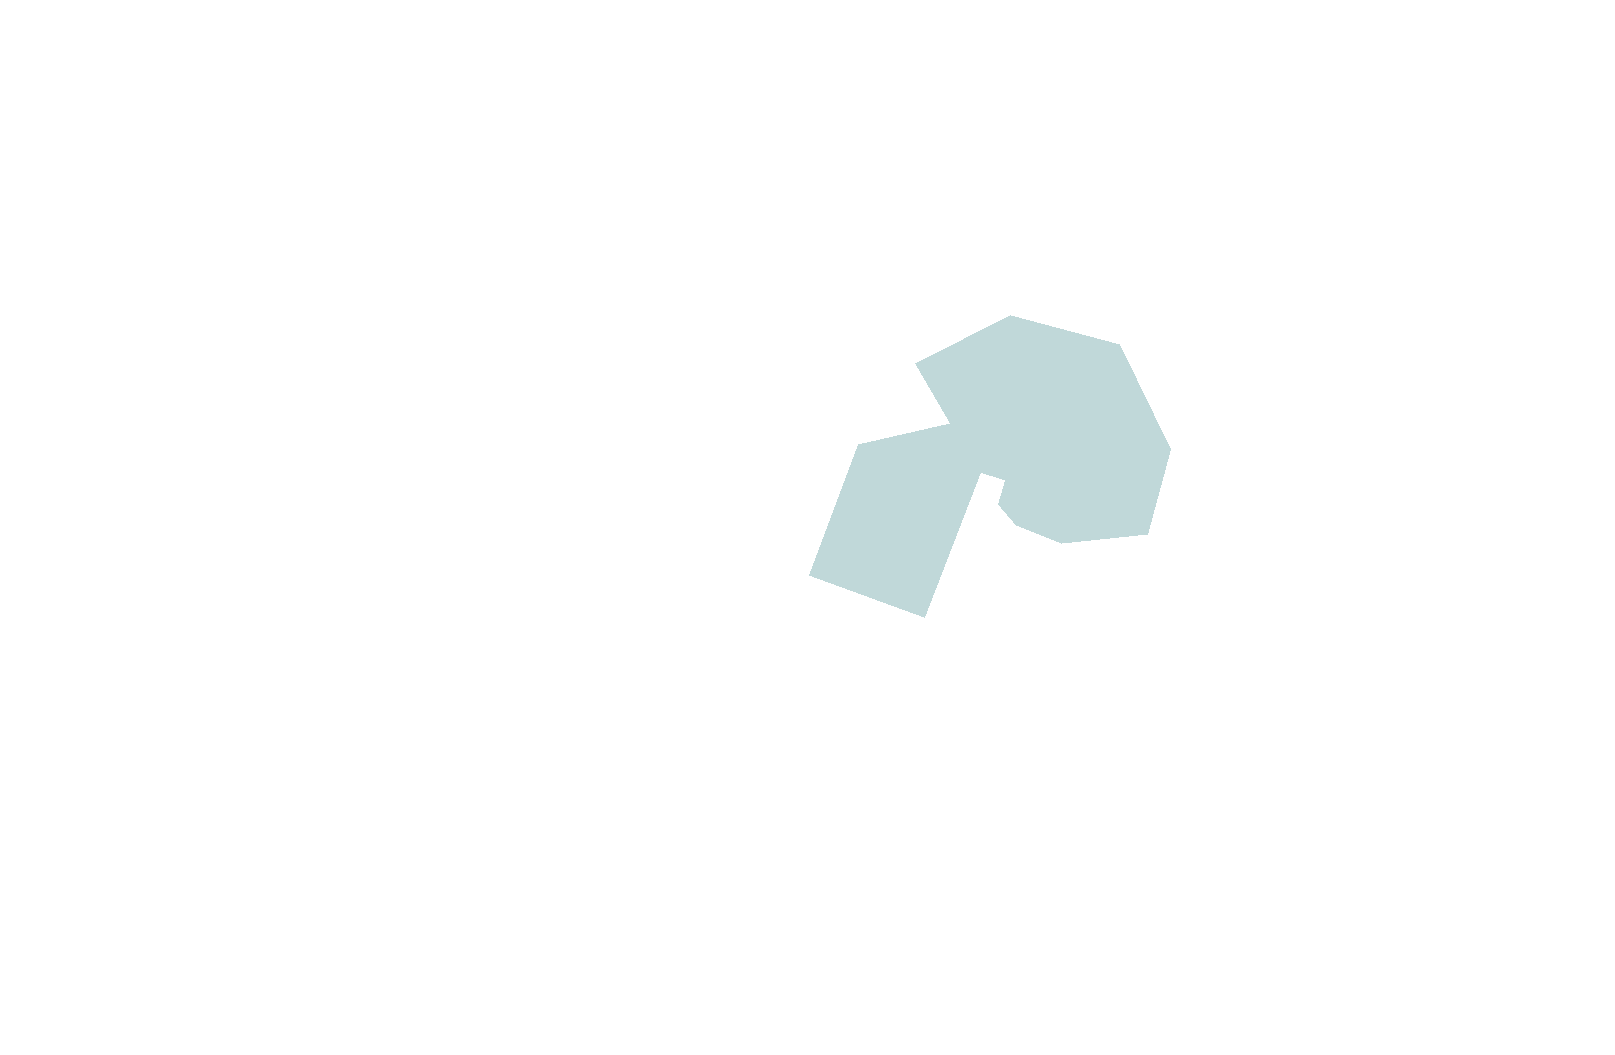
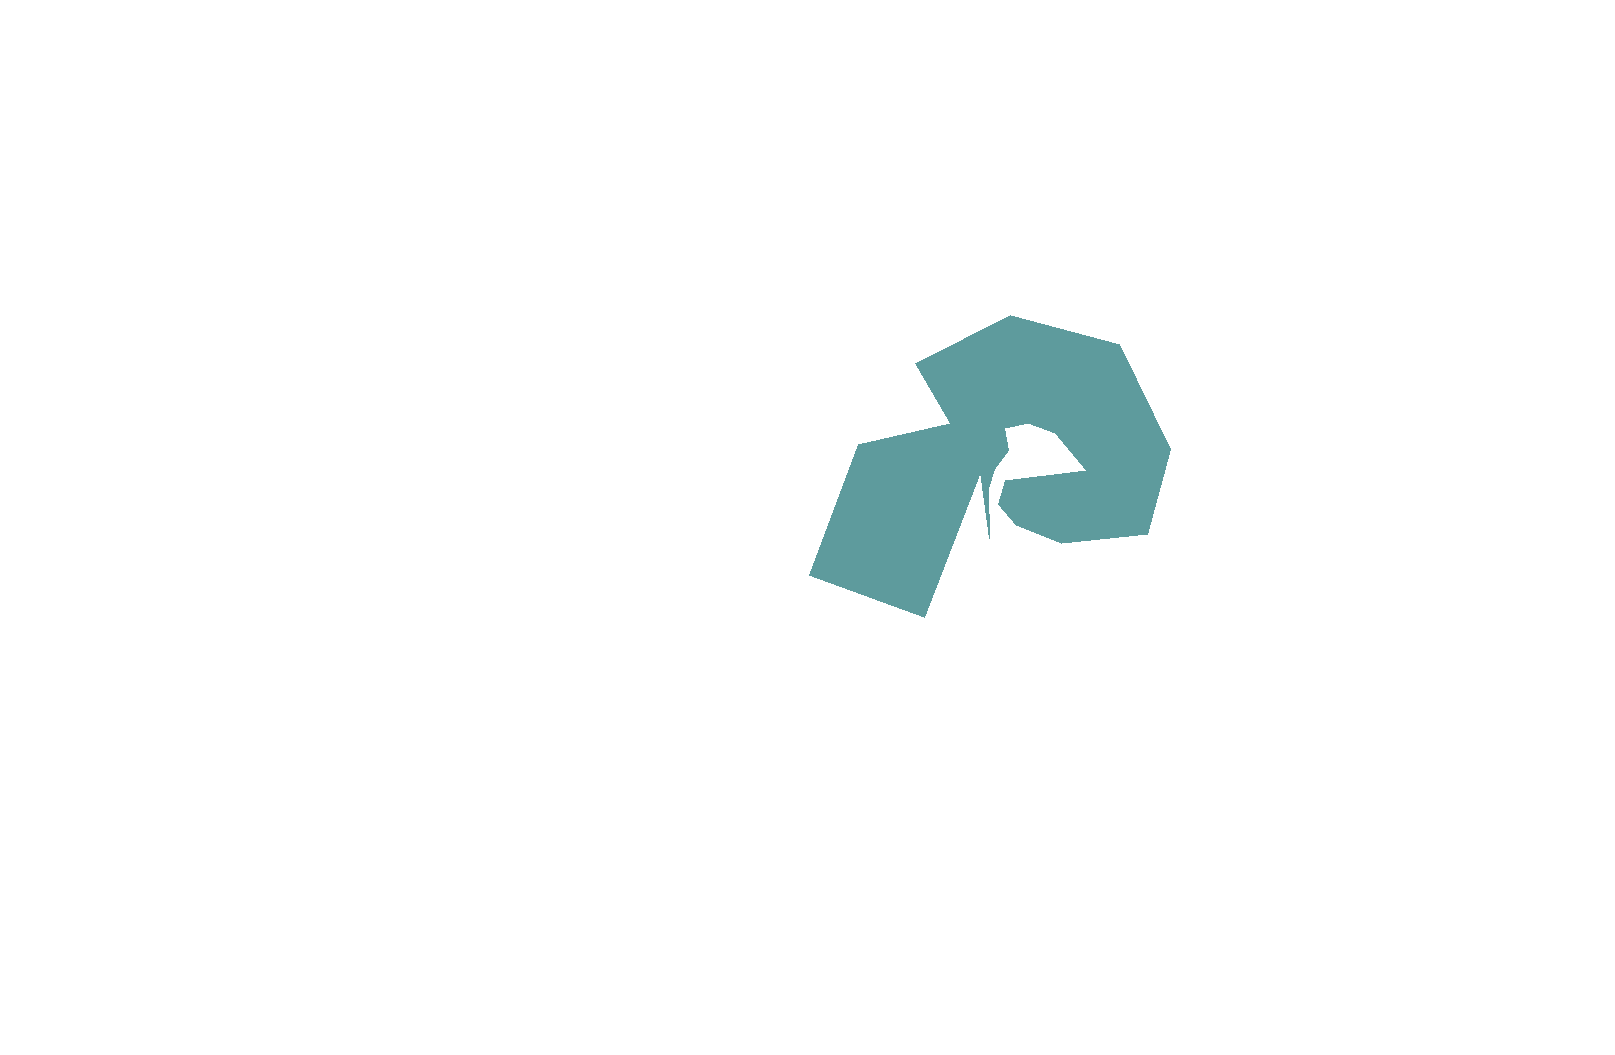
fixed lag issue from drawing areas

Changed region(s): [[0.4954, 0.3033, 0.743, 0.5763]]

diff --git a/FeatureTool/asset_area.py b/FeatureTool/asset_area.py
@@ -32,6 +32,7 @@ class AreaAsset:
     def __init__(self, name:str, target:ProjectAsset) -> None:
         self.name = name
         self.is_dirty = False
+        self.is_fill_dirty = True
         self.canvasIDs = []
         self.canvas = None
         self.drawer = None
@@ -63,7 +64,7 @@ class AreaAsset:
             self.settings[Settings.color] = UIColors.indigo
             self._save_settings()
 
-        self.fill_alpha = 0.25
+        # self.fill_alpha = 0.25
         self.stroke_width = 3.0
 
         self._stroke_filepath = Path(basepath + name + "_area.csv")
@@ -127,31 +128,33 @@ class AreaAsset:
     # --- Wrappers for stroke_data --------------------------------- #
     def modify_point(self, id:int, position:tuple):
         self.stroke_data[id] = position
-        self.is_dirty = True
-        self.draw_to_inspector()
+        self.mark_area_to_be_redrawn()
 
     def insert_point(self, position:tuple):
         self.stroke_data.insert(position)
-        self.is_dirty = True
-        self.draw_to_inspector()
+        self.mark_area_to_be_redrawn()
 
     def append_point(self, position:tuple, coordID:CoordMode):
         if (coordID == CoordMode.pixel):
             position = self.util.pixel_pt_to_norm_space(position)
 
         self.stroke_data.append(position)
-        self.is_dirty = True
-        self.draw_to_inspector()
+        self.mark_area_to_be_redrawn()
 
     def remove_point(self, id:int):
         self.stroke_data.pop(id)
-        self.is_dirty = True
-        self.draw_to_inspector()
+        self.mark_area_to_be_redrawn()
 
     def clear_points(self):
         self.stroke_data.clear()
+        self.mark_area_to_be_redrawn()
+
+    def mark_area_to_be_redrawn(self):
+        self.is_dirty = True
+        self.is_fill_dirty = True
         self.draw_to_canvas()
         self.draw_to_inspector()
+
 
     # -------------------------------------------------------------- #
     # --- Utility functions ---------------------------------------- #
@@ -167,6 +170,7 @@ class AreaAsset:
             [b] average the value of surrounding pixels since getpixel() uses an int and not a float
         '''
         if self.fill_img is None:
+            self.is_fill_dirty = True
             self.__draw_fill()
 
         if coord_id is CoordMode.pixel:
@@ -263,8 +267,8 @@ class AreaAsset:
                 pointID = self.canvas.create_oval(util.point_to_size_coords((pt_a), circle_size), fill=self.settings['color'].path)
                 self.canvasIDs.append(pointID)
 
-    def __draw_fill(self, render_image=True):
-        print("redrawing")
+    def __draw_fill(self):
+        # print("redrawing")
         polygon_points = []
         for pt in self.stroke_data:
             pixel_pt = self.util.norm_pt_to_pixel_space(pt)
@@ -290,7 +294,8 @@ class AreaAsset:
         )
 
         if len(polygon_points) > 2:
-            if render_image is True or self._fill_img_filepath.is_file() is False:
+            if self.is_fill_dirty is True:
+                print("rendering fill for {}".format(self.name))
                 fill = ImageColor.getcolor(self.settings['color'].fill, 'RGB')
                 alpha = int(self.settings['fill_alpha'] * 255)
                 
@@ -300,11 +305,12 @@ class AreaAsset:
 
                 self.fill_img.save(self._fill_img_filepath)
                 self.fill_img = self.fill_img
+                self.is_fill_dirty = False
             
             self.image_pi = ImageTk.PhotoImage(Image.open(self._fill_img_filepath))
-            if self.canvasID_fill is None:
-                self.canvasID_fill = self.canvas.create_image(self.image_pi.width()/2, self.image_pi.height()/2, anchor=tk.CENTER, image=self.image_pi)
-            # imageid = self.canvas.create_image(self.image_pi.width()/2, self.image_pi.height()/2, anchor=tk.CENTER, image=self.image_pi)
+            # if self.canvasID_fill is None:
+            #     self.canvasID_fill = self.canvas.create_image(self.image_pi.width()/2, self.image_pi.height()/2, anchor=tk.CENTER, image=self.image_pi)
+            imageid = self.canvas.create_image(self.image_pi.width()/2, self.image_pi.height()/2, anchor=tk.CENTER, image=self.image_pi)
 
 
     def draw_last_point_to_cursor(self, cursor_pos:tuple):
@@ -391,6 +397,7 @@ class AreaAsset:
 
         def sync_fill_alpha(self:AreaAsset, tkVar:DoubleVar, *args, **kwargs):
             self.settings['fill_alpha'] = tkVar.get()
+            self.is_fill_dirty = True
             self.draw_to_canvas()
 
         valueVar = DoubleVar()

diff --git a/FeatureTool/view_main_window.py b/FeatureTool/view_main_window.py
@@ -229,8 +229,8 @@ class MainWindow:
             scroll_bbox[1] = img_box[1]
             scroll_bbox[3] = img_box[3]
 
-        for area in self.areas:
-            area.draw_to_canvas()
+        # for area in self.areas:
+        #     area.draw_to_canvas()
         
         if self.active_area:
             self.active_area.draw_last_point_to_cursor(self.mouse_pos)
